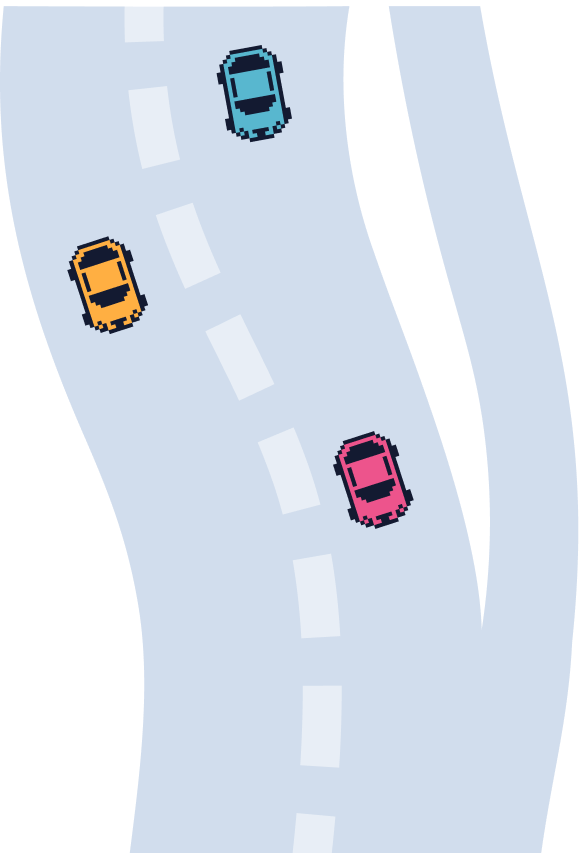
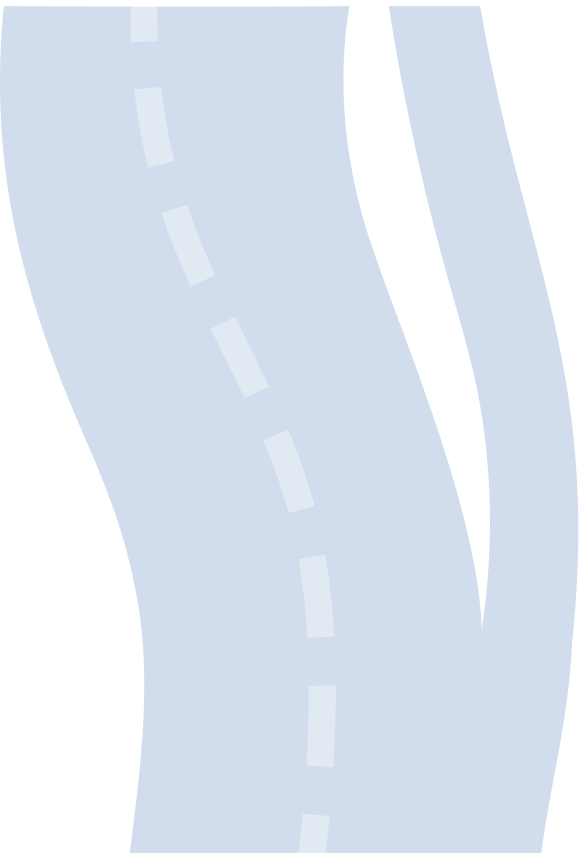
added animated cars

Changed region(s): [[0.5596, 0.4865, 0.715, 0.6386], [0.3731, 0.0304, 0.4974, 0.1825], [0.0933, 0.2737, 0.2487, 0.3953]]

diff --git a/src/features/03-De-Donde-Son-Los-Evaluados/index.tsx b/src/features/03-De-Donde-Son-Los-Evaluados/index.tsx
@@ -1,9 +1,27 @@
+import {motion, type Variants} from "framer-motion";
+
 import CARD_1 from "@/assets/where-from/card-1.png";
 import CARD_2 from "@/assets/where-from/card-2.png";
 import CARD_3 from "@/assets/where-from/card-3.png";
+import CAR_1 from "@/assets/where-from/cars/car-1.png";
+import CAR_2 from "@/assets/where-from/cars/car-2.png";
+import CAR_3 from "@/assets/where-from/cars/car-3.png";
+import CAR_4 from "@/assets/where-from/cars/car-4.png";
+
+const carVariants: Variants = {
+  hidden: { y: -80, opacity: 0 },
+  show: (i: number = 0) => ({
+    y: 0,
+    opacity: 1,
+    transition: {
+      duration: 1,
+      delay: i * 0.15,
+      ease: [0.16, 1, 0.3, 1],
+    },
+  }),
+};
 
 export const DeDondeSonLosEvaluados = () => {
-
   return (
     <div>
       <div className="mx-auto container w-full min-h-screen h-full mt-32">
@@ -13,14 +31,20 @@ export const DeDondeSonLosEvaluados = () => {
             Lorem Ipsum is simply dummy text of the printing and typesetting industry.
             Lorem Ipsum has been the industry's standard dummy text ever since the 1500s.
           </p>
-          <div className="flex gap-2 w-full text-left leading-none mt-4">
+
+          <div className="flex gap-2 w-full text-left leading-none mt-12">
             <div className="flex flex-col justify-between">
               <h2 className="font-light text-[#868686]">Lugar de origen</h2>
               <h2 className="font-light text-[#868686]">Destino</h2>
             </div>
-            <div className="grid md:grid-cols-3 gap-4 w-full h-[60vh]">
 
-              <div className="flex flex-col gap-2">
+            <div className="grid md:grid-cols-3 gap-4 w-full h-[60vh]">
+              <motion.div
+                className="flex flex-col gap-2 relative"
+                initial="hidden"
+                whileInView="show"
+                viewport={{ amount: 0.3 }}
+              >
                 <div className="flex justify-between w-full items-end">
                   <div>
                     <p className="text-[#58B7CF] text-5xl font-black leading-none">80%</p>
@@ -31,15 +55,44 @@ export const DeDondeSonLosEvaluados = () => {
                     <p className="text-[#868686] text-lg leading-none">Residentes</p>
                   </div>
                 </div>
+
                 <img
                   src={CARD_1}
-                  className="h-[65vh] w-full object-cover"
+                  className="h-[65vh] w-full object-cover not-selectable"
                   alt="Card 1"
                 />
-                <h1 className="text-center w-full pl-8 font-medium text-lg">Oxapampa</h1>
-              </div>
 
-              <div className="flex flex-col gap-2">
+                <motion.img
+                  custom={0}
+                  variants={carVariants}
+                  src={CAR_1}
+                  className="not-selectable h-auto w-12 absolute z-50 left-1/2 -translate-x-1/2 top-1/6"
+                  alt="Car 1"
+                />
+                <motion.img
+                  custom={1}
+                  variants={carVariants}
+                  src={CAR_2}
+                  className="not-selectable h-auto w-14 absolute z-50 left-1/5 -translate-x-1/2 top-1/3"
+                  alt="Car 2"
+                />
+                <motion.img
+                  custom={2}
+                  variants={carVariants}
+                  src={CAR_3}
+                  className="not-selectable h-auto w-14 absolute z-50 left-2/3 -translate-x-1/2 top-1/2"
+                  alt="Car 3"
+                />
+
+                <h1 className="text-center w-full pl-8 font-medium text-lg">Oxapampa</h1>
+              </motion.div>
+
+              <motion.div
+                className="flex flex-col gap-2 relative"
+                initial="hidden"
+                whileInView="show"
+                viewport={{ amount: 0.3 }}
+              >
                 <div className="flex justify-between w-full items-end">
                   <div className="text-left pl-4">
                     <p className="text-[#58B7CF] text-5xl font-black leading-none">70%</p>
@@ -50,15 +103,37 @@ export const DeDondeSonLosEvaluados = () => {
                     <p className="text-[#868686] text-lg leading-none">Residentes</p>
                   </div>
                 </div>
+
                 <img
                   src={CARD_2}
-                  className="h-[65vh] w-full object-cover"
+                  className="h-[65vh] w-full object-cover not-selectable"
                   alt="Card 2"
                 />
-                <h1 className="text-center w-full pl-8 font-medium text-lg">Huacho</h1>
-              </div>
 
-              <div className="flex flex-col gap-2">
+                <motion.img
+                  custom={0}
+                  variants={carVariants}
+                  src={CAR_4}
+                  className="not-selectable h-auto w-14 absolute z-50 left-1/2 -translate-x-1/2 top-1/6"
+                  alt="Car 4"
+                />
+                <motion.img
+                  custom={1}
+                  variants={carVariants}
+                  src={CAR_2}
+                  className="not-selectable h-auto w-14 absolute z-50 left-1/4 -translate-x-1/2 top-1/3"
+                  alt="Car 2"
+                />
+
+                <h1 className="text-center w-full pl-8 font-medium text-lg">Huacho</h1>
+              </motion.div>
+
+              <motion.div
+                className="flex flex-col gap-2 relative"
+                initial="hidden"
+                whileInView="show"
+                viewport={{ amount: 0.3 }}
+              >
                 <div className="flex justify-between w-full items-end">
                   <div className="text-left pl-8">
                     <p className="text-[#58B7CF] text-5xl font-black leading-none">80%</p>
@@ -69,17 +144,27 @@ export const DeDondeSonLosEvaluados = () => {
                     <p className="text-[#868686] text-lg leading-none">Residentes</p>
                   </div>
                 </div>
+
                 <img
                   src={CARD_3}
-                  className="h-[65vh] w-full object-cover"
+                  className="h-[65vh] w-full object-cover not-selectable"
                   alt="Card 3"
                 />
+
+                <motion.img
+                  custom={0}
+                  variants={carVariants}
+                  src={CAR_1}
+                  className="not-selectable h-auto w-12 absolute z-50 left-1/3 -translate-x-1/2 top-1/6"
+                  alt="Car 1"
+                />
+
                 <h1 className="text-center w-full pl-8 font-medium text-lg">Ica</h1>
-              </div>
+              </motion.div>
             </div>
           </div>
         </div>
       </div>
     </div>
-  )
-}
+  );
+};

diff --git a/src/index.css b/src/index.css
@@ -9,3 +9,13 @@
 :root {
     --font-sans: var(--font-helvetica);
 }
+
+.not-selectable {
+    user-select: none; /* Prevents text selection behavior on the image */
+    -webkit-user-select: none; /* For older WebKit browsers (e.g., Safari, Chrome) */
+    -moz-user-select: none; /* For older Firefox browsers */
+    -ms-user-select: none; /* For older Internet Explorer/Edge browsers */
+
+    user-drag: none; /* Prevents dragging the image */
+    -webkit-user-drag: none; /* For older WebKit browsers */
+}
